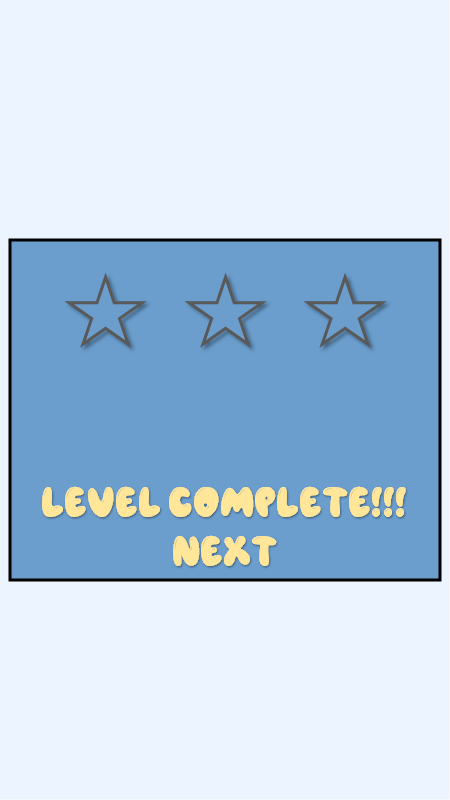
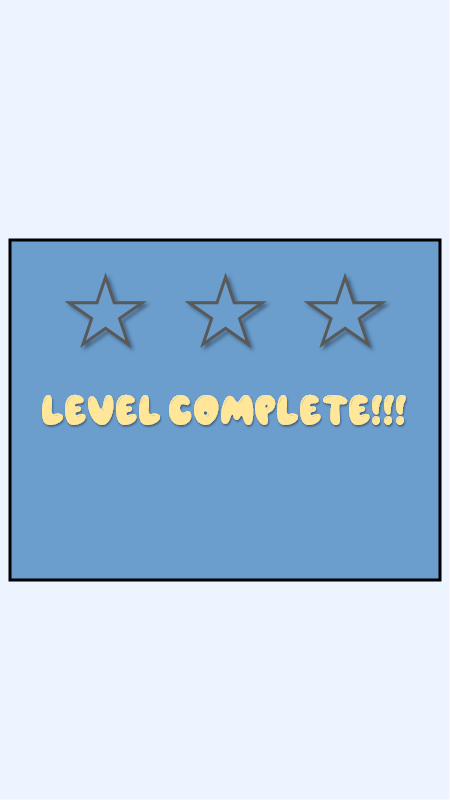
НОВАЯ ВЕРСИЯ

Changed region(s): [[0.0933, 0.5938, 0.9022, 0.7188], [0.0933, 0.4688, 0.9022, 0.5312]]

diff --git a/index.js b/index.js
@@ -1,10 +1,11 @@
-var PI=3.1415926535, M_WIDTH=450, M_HEIGHT=800, game_tick;
+var PI=3.1415926535,PI_2=6.283185307, M_WIDTH=450, M_HEIGHT=800, game_tick;
 var app, game_res, game_tick=0, g_spd=5, objects={}, baloons=[], a_cnt=20
 var screen_0, screen_1, screen_2, screen_3;
 
+
 var level=0;
 var arrows=20;
-var life=3;
+var life=0;
 var prv_baloon_send=0;
 var baloons_sent=0;
 var baloons_cnt=10;
@@ -14,6 +15,7 @@ var bursted_baloons=0;
 var passed_baloons=0;
 var sec_check=0;
 var game_ended=false;
+var hand_play=false
 
 g_process=function(){};
 
@@ -492,7 +494,7 @@ class baloon_class extends PIXI.Sprite
 		{			
 			if (this.type==b_simple)
 			{
-				if (Math.random()>0.97)
+				if (Math.random()>0.95)
 				{
 					
 					var r_int=Math.floor(Math.random() * 3);
@@ -537,7 +539,7 @@ class baloon_class extends PIXI.Sprite
 		}
 		
 		//превращаем бонусные шары в обычные
-		if (this.type==b_bonus_arrows || this.type==b_bonus_slow)
+		if (this.type==b_bonus_arrows || this.type==b_bonus_slow || this.type==b_bonus_hand)
 		{
 			if (game_tick>this.bonus_time+240)
 			{
@@ -585,8 +587,7 @@ class arrow_class extends PIXI.Sprite
 	{				
 		if (this.visible==false)
 			return;
-		
-		
+				
 		if (this.state=="rot")
 		{
 			this.rotation=objects.bow.rotation;
@@ -603,12 +604,10 @@ class arrow_class extends PIXI.Sprite
 			}
 
 		}
-		
 
 	}
 	
 }
-
 
 class screen_0_class
 {
@@ -1352,6 +1351,12 @@ function send_baloon()
 	}
 }
 
+function add_arrows(cnt)
+{
+	arrows_cnt+=cnt;
+	objects.arrows_info_text.text="X"+arrows_cnt
+}
+
 function send_arrow()
 {
 	if (arrows_cnt===0)
@@ -1374,14 +1379,38 @@ function send_arrow()
 	objects.arrow.visible=false;
 	objects.bow.texture=game_res.resources['bow2'].texture;
 	
-	arrows_cnt--;
+
 
 	//обновляем инфор о количестве стрел
+	arrows_cnt--;	
 	objects.arrows_info_text.text="x"+arrows_cnt
 	
 
 }
-				
+		
+function send_many_arrows(px,py)
+{
+	
+	var cnt=4;
+	var inc_a=PI_2/cnt;
+	var inc_i=0;
+	
+	
+	//ищем свободную стрелу для запуска
+	for (var i=0;i<objects.arrows.length;i++)
+	{
+		if (objects.arrows[i].visible==false)
+		{				
+			objects.arrows[i].send(px,py,inc_a*inc_i+PI/4);
+			inc_i++;
+			
+			if (inc_i===cnt)
+				return;
+		}
+	}		
+
+}
+		
 function decrease_life()
 {
 	life--;
@@ -1390,7 +1419,7 @@ function decrease_life()
 	objects.life_info.text="x"+this.life;
 	passed_baloons++;
 }
-	
+			
 //заставка игры
 function process_1()
 {
@@ -1418,6 +1447,14 @@ function process_1()
 	if (game_tick===100)
 		objects.button_1.interactive=true;		
 
+
+	//это нажатие кнопки
+	function button_down()
+	{
+		g_process=process_2;
+		on_start=true;
+	}
+	process_1.button_down=button_down;
 	
 	//тик
 	game_tick++;
@@ -1441,8 +1478,6 @@ function process_2()
 		c.add_anim_out_pos(objects.button_1,	a_out,objects.button_1.x,		objects.button_1.y+160			,0.02,true);
 		c.add_anim_out_pos(objects.game_over,	a_out,objects.game_over.x+400,	objects.game_over.y				,0.02,true);
 		
-		//c.add_anim_out_scale(objects.game_over,	a_out,objects.game_over.x+400,	objects.game_over.y				,0.02,true);
-		
 		
 		objects.level_note.text="Level "+level;
 		objects.arrows_info_text.text="x"+arrows;
@@ -1451,9 +1486,16 @@ function process_2()
 		//сначала выключаем все шары которые возможно остались от предыдущих игр
 		objects.baloons.forEach(e=>e.visible=false);	
 		baloons_sent=0;
+		bursted_baloons=0;
 		prv_baloon_send=0;
+		baloons_cnt=l_info[level][0];		
+		life=l_info[level][2];
+		
+		//восстанавливаем количество стрел
+		arrows_cnt=l_info[level][1];
+		objects.arrows_info_text.text="x"+arrows_cnt;
 	
-		//другие инициализации
+		//другие инициализации		
 		g_spd=5;
 		game_tick=0;
 		on_start=false;
@@ -1468,7 +1510,7 @@ function process_2()
 		c.add_anim_in_pos(objects.heart_icon,			a_in,	dx=0,		dy=-100,	0.01);
 		c.add_anim_in_pos(objects.arrows_info_text,		a_in,	dx=0,		dy=-100,	0.01);		
 		c.add_anim_in_pos(objects.life_info,			a_in,	dx=0,		dy=-100,	0.01);	
-		c.add_anim_in_pos(objects.level_note,			a_in,	dx=-400,	dy=0,		0.01);	
+		c.add_anim_scale(objects.level_note,			a_in,	0,	1,	1,  1,	0.01);	
 		
 		c.add_anim_in_pos(objects.arrow,		a_in,	dx=-400,		dy=0,	0.02);	
 		c.add_anim_in_pos(objects.bow,			a_in,	dx=400,			dy=0,	0.02);	
@@ -1523,11 +1565,10 @@ function process_3()
 		sec_check=0;
 		passed_baloons=0;
 		bursted_baloons=0;
-		arrows_cnt=10;
-		objects.arrows_info_text.text="x"+arrows;
+
 	
 		//активируем нажатие на лук
-		objects.bow.pointerdown=function(){send_arrow();};
+		objects.bcg5.pointerdown=function(){send_arrow();};
 	
 		//другие инициализации
 		on_start=false;
@@ -1568,14 +1609,16 @@ function process_3()
 		
 	//обрабатываем попадания
 	var hited=0;
-	for(var i=0;i<objects.baloons.length;i++)
+	for (var k=0;k<objects.arrows.length;k++)
 	{
-		if(objects.baloons[i].visible==true)
-		{
-			for (var k=0;k<objects.arrows.length;k++)
+		if(objects.arrows[k].visible==true)
+		{	
+	
+			for(var i=0;i<objects.baloons.length;i++)
 			{
-				if(objects.arrows[k].visible==true)
+				if(objects.baloons[i].visible==true)
 				{
+
 				
 					var dx=objects.baloons[i].x-objects.arrows[k].x;
 					var dy=objects.baloons[i].y-objects.arrows[k].y;
@@ -1599,21 +1642,20 @@ function process_3()
 							
 							case b_bonus_arrows:
 								objects.baloons[i].visible=false;	
-								//this.add_arrows(3);		
+								add_arrows(3);		
 								bursted_baloons++;							
 							break;
 							
 							case b_bonus_slow:
 								objects.baloons[i].visible=false;	
-								//this.slow_baloons();
+								objects.baloons.forEach(e=>e.slow_down());
 								bursted_baloons++;								
 							break;
 							
 							case b_bonus_hand:
 								objects.baloons[i].visible=false;	
-								//this.hand_play=true;
-								//this.hand_play_start=game_tick;
-								//objects.bcg.pointerdown=screen_1.send_arrow_by_hand.bind(this);
+								objects.arrows[k].visible=false;	
+								send_many_arrows(objects.baloons[i].x,objects.baloons[i].y);
 								bursted_baloons++;								
 							break;
 							
@@ -1703,7 +1745,11 @@ function process_4()
 		return;
 	}
 		
+	//тик
+	game_tick++;
 	
+	//анимация
+	c.process();
 }
 
 //это эпизод выигрыша
@@ -1726,10 +1772,40 @@ function process_5()
 		c.add_anim_in_pos(objects.star2,			a_in_bounce,0,	-500	,0.015,true);
 		c.add_anim_in_pos(objects.star3,			a_in_bounce,0,	-500	,0.02,true);
 	
+		//увеличиваем уровень
+		level++;
 	
 		//другие инициализации
 		on_start=false;
+		game_tick=0;
 	}
+	
+	//показываем кнопку 
+	if (game_tick===70)
+		c.add_anim_scale(objects.next_level_button, a_in,0,1,1,1,0.02);	
+	
+	
+	//это нажатие кнопки
+	function button_down()
+	{
+		g_process=process_2;
+		on_start=true;
+		
+		//убираем кнопку с анимацией,звезды и другие объекты
+		c.add_anim_scale(objects.next_level_button, a_out,1,1,1,0,0.02,true);
+		
+		//добавляем новые объекты
+		c.add_anim_out_pos(objects.win,				a_out,objects.win.x+500,	objects.win.y	,0.02,true);		
+		c.add_anim_out_pos(objects.star1,			a_out,objects.star1.x,	objects.star1.y+600	,0.01,true);
+		c.add_anim_out_pos(objects.star2,			a_out,objects.star2.x,	objects.star2.y+600	,0.015,true);
+		c.add_anim_out_pos(objects.star3,			a_out,objects.star3.x,	objects.star3.y+600	,0.02,true);
+		
+		
+		
+		g_process=process_2;
+		on_start=true;
+	}
+	process_6.button_down=button_down;
 	
 	
 	//обрабатываем стрелки
@@ -1776,6 +1852,23 @@ function process_6()
 	
 	//обрабатываем шары
 	objects.baloons.forEach(e=>e.process());
+	
+	
+	//это нажатие кнопки
+	function button_down()
+	{
+		g_process=process_2;
+		on_start=true;
+		
+		//убираем кнопку с анимацией
+		c.add_anim_scale(objects.retry_button, a_out,1,1,1,0,0.02,true);
+		
+		
+		g_process=process_2;
+		on_start=true;
+	}
+	process_6.button_down=button_down;
+	
 	
 	//тик
 	game_tick++;
